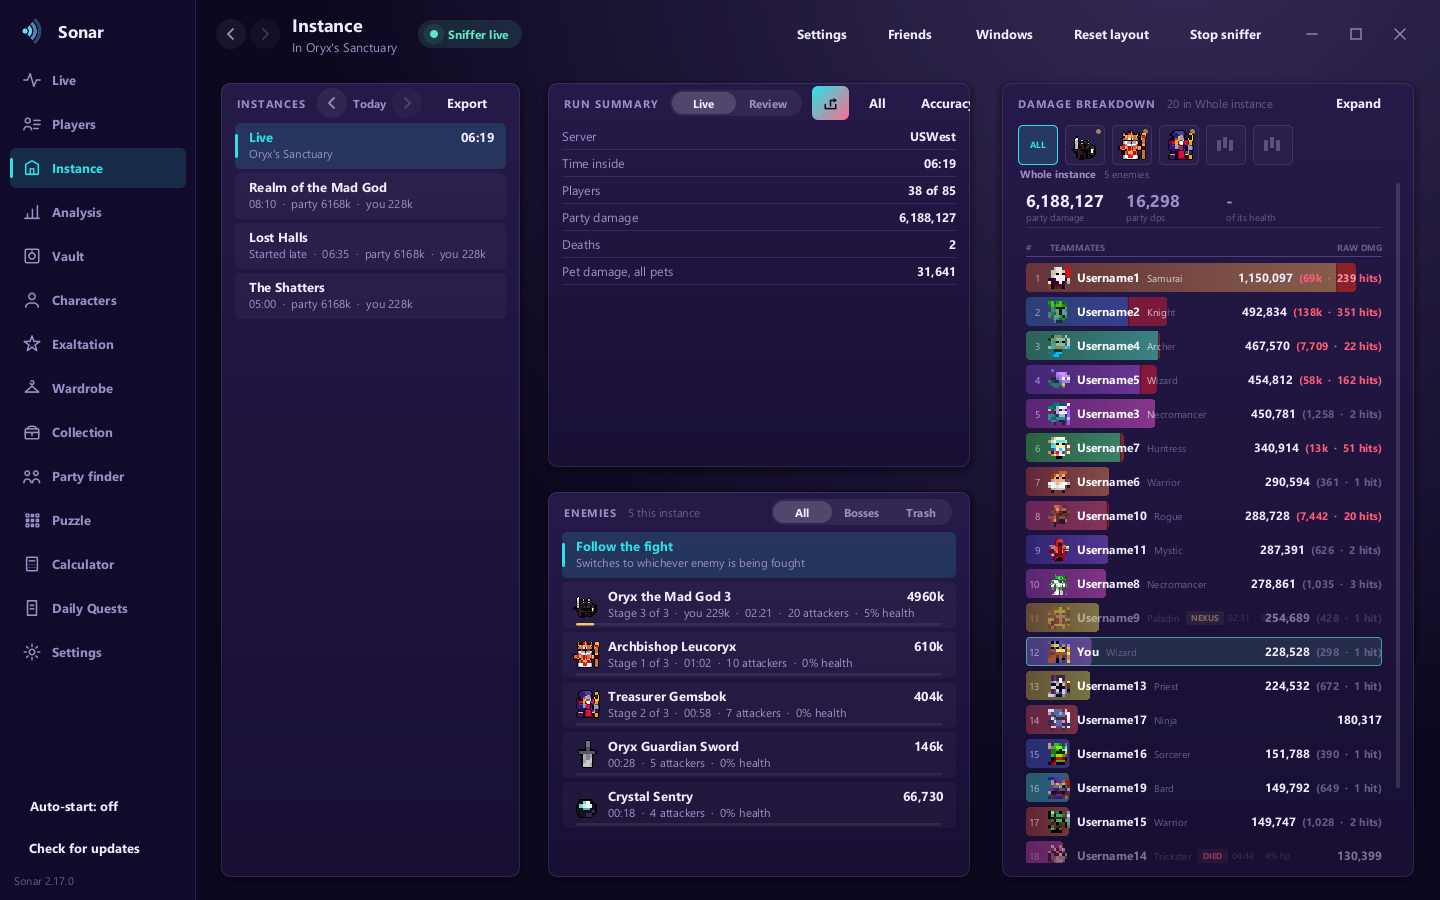
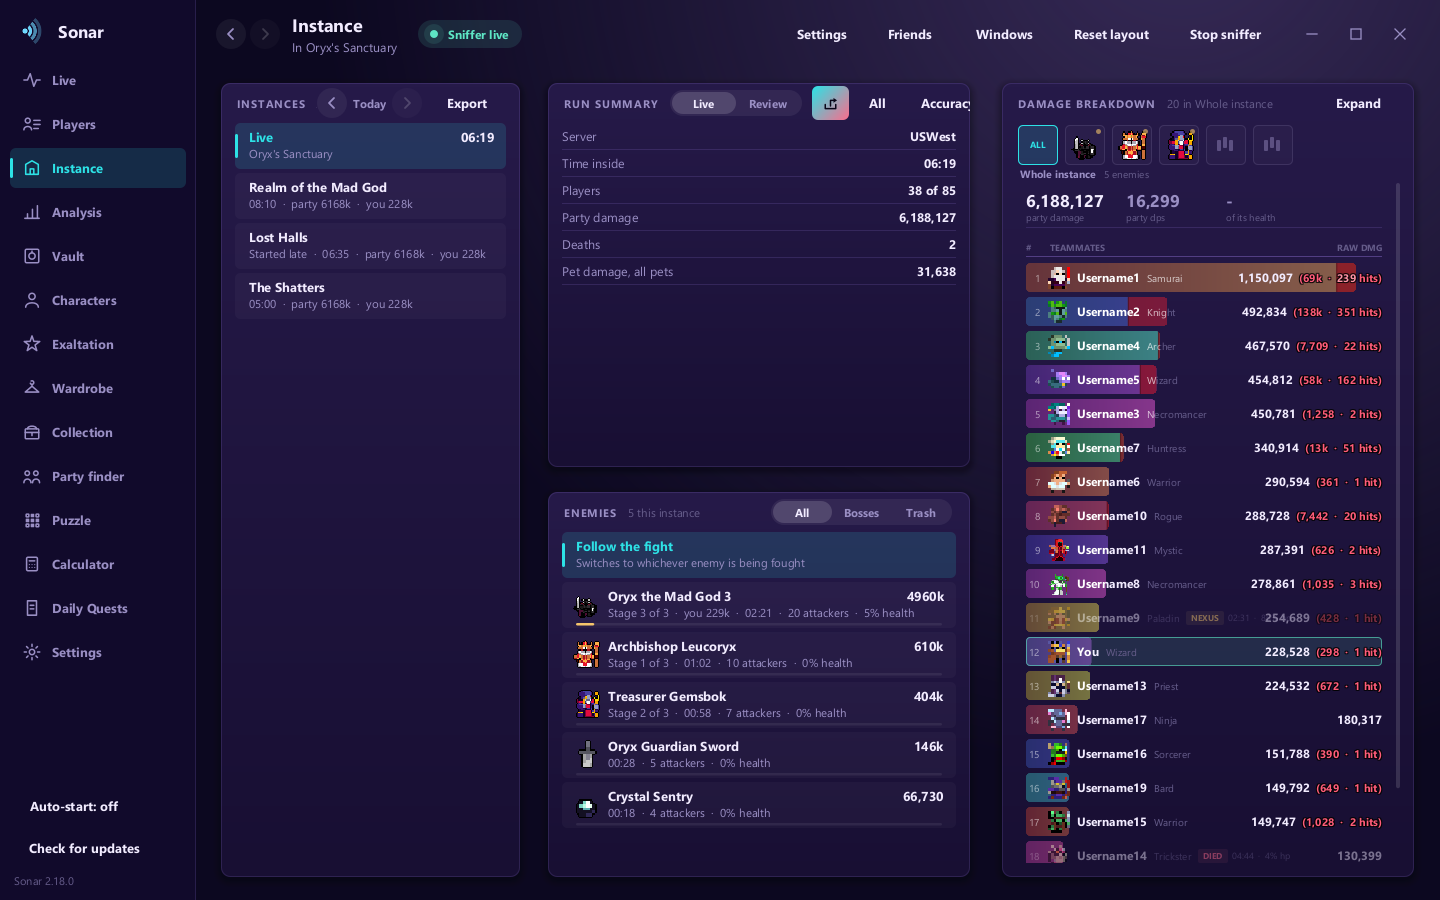
Sonar 2.18.0: guard damage is always red
2.17.0 drew a stray hit or two in grey, reasoning that it was not worth
accusing anybody over. Wrong call, and the user was right to push back: the
figure exists to say damage went into the guard, and a stray hit is still a
hit on the guard. Every guard figure is red now - breakdown, columns, player
panel. What separates one hit from three hundred and fifty is the size of
the number and the length of the red run on the bar.

The figures are also outlined now. On the top of the board the bar runs full
width, putting that line on the class colour and on the deep red within the
same breath; a shadow carried it on most surfaces and lost it on the bright
end of a gradient. SonarTheme.outlined and acrossOutlined do it in eight
offsets, and the zoomed comparison is unambiguous.

Also: widening the breakdown no longer prints the guard figures twice. The
brackets are what the INTO GUARD and GUARD HITS columns become when there is
no room for them, so they are suppressed where the columns fit.

233 self-test assertions pass.

Claude-Session: https://claude.ai/code/session_018UYKXESrWTKvUcwzXH1CDy

diff --git a/src/main/java/sonar/ui/BreakdownPane.java b/src/main/java/sonar/ui/BreakdownPane.java
@@ -403,7 +403,9 @@ class BreakdownPane extends Pane {
 
         g.setFont(SonarTheme.bold(12f));
         String figure = SonarTheme.number(r.damage);
-        if (r.guardDamage > 0) {
+        // the brackets are what the columns become when there is no room for them, so where
+        // the columns are showing these would be the same two numbers printed twice
+        if (r.guardDamage > 0 && l.guard <= 0) {
             // the guard's figure in brackets after the damage, where a reader already is
             // both figures, because the hit count is what other trackers call "guarded hits"
             // and it is the one people quote at each other afterwards
@@ -411,12 +413,16 @@ class BreakdownPane extends Pane {
                     + "  ·  " + SonarTheme.hits(r.guardHits) + ")";
             g.setFont(SonarTheme.bold(11f));
             int insideW = g.getFontMetrics().stringWidth(inside);
-            // a full bar reaches under these figures, so they take the paler red where they
-            // cross the glass - DANGER on the glass is red on red
-            Color ink = r.guardIncidental() ? SonarTheme.FAINT : SonarTheme.DANGER;
-            Color onGlassInk = r.guardIncidental() ? SonarTheme.MUTED : SonarTheme.GUARD_INK;
-            SonarTheme.across(g, inside, l.damage - insideW, mid + 4, guardStart, barEnd, clipTop, clipH,
-                    ink, onGlassInk, ink);
+            // Always red, never softened: damage into a guard is the thing this figure exists
+            // to report, and a stray hit is still a hit on the guard. What separates one shot
+            // from three hundred is the size of the number and the length of the red run on
+            // the bar, which is plenty - it does not need the colour as well.
+            //
+            // Outlined, because a full bar puts this line on the class colour and on the deep
+            // red within the same breath. A shadow carries it on most surfaces and loses it on
+            // the bright end of a gradient; an outline holds on all of them.
+            SonarTheme.acrossOutlined(g, inside, l.damage - insideW, mid + 4, guardStart, barEnd,
+                    clipTop, clipH, SonarTheme.DANGER, SonarTheme.GUARD_INK, SonarTheme.DANGER);
             g.setFont(SonarTheme.bold(12f));
             g.setColor(SonarTheme.TEXT);
             right(g, figure, l.damage - insideW, mid + 4);
@@ -433,8 +439,8 @@ class BreakdownPane extends Pane {
         cell(g, l.hits, mid, r.hits > 0 ? SonarTheme.number(r.hits) : "-", SonarTheme.MUTED);
         cell(g, l.biggest, mid, r.biggestHit > 0 ? SonarTheme.number(r.biggestHit) : "-", SonarTheme.MUTED);
         // damage put into a guard that was up: the number somebody is asked about afterwards,
-        // so it is coloured rather than left to be found among the greys
-        Color guardInk = r.guardDamage <= 0 || r.guardIncidental() ? SonarTheme.FAINT : SonarTheme.CORAL;
+        // so it carries the same red here as it does in the brackets
+        Color guardInk = r.guardDamage > 0 ? SonarTheme.DANGER : SonarTheme.FAINT;
         cell(g, l.guard, mid, r.guardDamage > 0 ? SonarTheme.number(r.guardDamage) : "-", guardInk);
         cell(g, l.guardHits, mid, r.guardHits > 0 ? SonarTheme.number(r.guardHits) : "-", guardInk);
         cell(g, l.taken, mid, r.damageTaken >= 0 ? SonarTheme.number(r.damageTaken) : "-",

diff --git a/src/main/java/sonar/ui/SonarTheme.java b/src/main/java/sonar/ui/SonarTheme.java
@@ -437,6 +437,29 @@ public final class SonarTheme {
      *
      * @param guardStart where the second colour begins; pass {@code barEnd} for none.
      */
+    public static void acrossOutlined(Graphics2D g, String text, float x, float y, double guardStart,
+                                      double barEnd, int top, int height, Color ink) {
+        acrossOutlined(g, text, x, y, guardStart, barEnd, top, height, ink, ink, ink);
+    }
+
+    /** {@link #across}, with each run outlined - see {@link #outlined}. */
+    public static void acrossOutlined(Graphics2D g, String text, float x, float y, double guardStart,
+                                      double barEnd, int top, int height,
+                                      Color onBar, Color onGuard, Color offBar) {
+        if (text == null || text.isEmpty()) return;
+        double[] from = {-10000, guardStart, barEnd};
+        double[] to = {guardStart, barEnd, 20000};
+        Color[] ink = {onBar, onGuard, offBar};
+        Shape old = g.getClip();
+        for (int zone = 0; zone < 3; zone++) {
+            if (to[zone] <= from[zone]) continue;
+            g.setClip(old);
+            g.clip(new java.awt.geom.Rectangle2D.Double(from[zone], top, to[zone] - from[zone], height));
+            outlined(g, text, x, y, ink[zone], OUTLINE);
+        }
+        g.setClip(old);
+    }
+
     public static void across(Graphics2D g, String text, float x, float y, double guardStart, double barEnd,
                               int top, int height, Color onBar, Color onGuard, Color offBar) {
         if (text == null || text.isEmpty()) return;
@@ -466,6 +489,30 @@ public final class SonarTheme {
     public static Color onGlass(Color surface) {
         return mix(surface, GUARD_GLASS, GUARD_GLASS.getAlpha() / 255.0);
     }
+
+    /**
+     * A line of text with a dark outline around it, so a colour chosen to mean something
+     * keeps meaning it wherever it lands.
+     * <p>
+     * A red figure has to read on the panel, on eight different class colours and on the deep
+     * red laid over a bar. A single drop shadow carries it on most of those and loses it on
+     * the bright end of a gradient. Eight offsets at one pixel is a real outline rather than a
+     * shadow, and at these sizes it costs nothing worth measuring.
+     */
+    public static void outlined(Graphics2D g, String text, float x, float y, Color fill, Color edge) {
+        if (text == null || text.isEmpty()) return;
+        g.setColor(edge);
+        for (int dx = -1; dx <= 1; dx++) {
+            for (int dy = -1; dy <= 1; dy++) {
+                if (dx != 0 || dy != 0) g.drawString(text, x + dx, y + dy);
+            }
+        }
+        g.setColor(fill);
+        g.drawString(text, x, y);
+    }
+
+    /** The outline that goes under {@link #outlined} text by default. */
+    public static final Color OUTLINE = new Color(0, 0, 0, 165);
 
     public static Color mix(Color a, Color b, double t) {
         t = Math.max(0, Math.min(1, t));

diff --git a/src/main/java/sonar/ui/LiveView.java b/src/main/java/sonar/ui/LiveView.java
@@ -501,6 +501,8 @@ class LiveView {
 
     /** True while the breakdown card is opened out over the Instance page. */
     private boolean breakdownOpen;
+    // for screenshots: -Dsonar.shot.expand=1 opens the breakdown full width, where it has room
+    // for the INTO GUARD and GUARD HITS columns
     private final SonarButton breakdownToggle = new SonarButton("Expand", false, this::toggleBreakdown);
 
     /** The breakdown, with the row of enemies to pick between above it. */
@@ -716,6 +718,11 @@ class LiveView {
      * Writes the three shareable pictures to a folder, for looking at what they actually come
      * out like without having to finish a run first. Driven by {@code -Dsonar.shot.cards=<dir>}.
      */
+    /** For screenshots: opens the breakdown full width, where the guard columns have room. */
+    void expandBreakdownForShot() {
+        if (!breakdownOpen) toggleBreakdown();
+    }
+
     void writeExports(String dir) {
         LiveModel m = shown();
         PlayerLook.fill(m.whole.rows);
@@ -3037,9 +3044,11 @@ class LiveView {
             // only on a fight that has a guard to shoot, which is a handful of them; everywhere
             // else the line would read "-" for everyone forever and teach nobody anything
             if (m.whole.anyGuarded() || chosen.guardDamage > 0) {
-                f.add(new String[]{"Into the guard", chosen.guardDamage <= 0 ? "none"
-                        : SonarTheme.number(chosen.guardDamage) + "  ("
-                        + SonarTheme.number(chosen.guardHits) + (chosen.guardHits == 1 ? " hit)" : " hits)")});
+                boolean any = chosen.guardDamage > 0;
+                f.add(new String[]{"Into the guard", any
+                        ? SonarTheme.number(chosen.guardDamage) + "  ("
+                        + SonarTheme.number(chosen.guardHits) + (chosen.guardHits == 1 ? " hit)" : " hits)")
+                        : "none", any ? "guard" : ""});
             }
             f.add(new String[]{"Biggest hit", chosen.biggestHit <= 0 ? "-" : SonarTheme.number(chosen.biggestHit)});
             String[] slots = {"Weapon", "Ability", "Armor", "Ring"};

diff --git a/src/main/java/sonar/ui/FactsPane.java b/src/main/java/sonar/ui/FactsPane.java
@@ -125,7 +125,8 @@ class FactsPane extends Pane {
         FontMetrics labelFm = g.getFontMetrics(label), valueFm = g.getFontMetrics(value);
         for (String[] f : facts) {
             g.setFont(value);
-            g.setColor(SonarTheme.TEXT);
+            // a third element marks a row that carries its own colour; see LiveView's guard row
+            g.setColor(f.length > 2 && "guard".equals(f[2]) ? SonarTheme.DANGER : SonarTheme.TEXT);
             String v = SonarTheme.fit(f[1], valueFm, width / 2 + 30);
             int vw = valueFm.stringWidth(v);
             g.drawString(v, width - vw, y + 18);

diff --git a/src/main/java/sonar/ui/Updater.java b/src/main/java/sonar/ui/Updater.java
@@ -34,7 +34,7 @@ import java.util.zip.ZipInputStream;
 final class Updater {
 
     /** Version of this build. Raise it for each release; tools/make-release.ps1 reads it for the zip name. */
-    static final String CURRENT = "2.17.0";
+    static final String CURRENT = "2.18.0";
 
     private static final String REPOSITORY = "https://github.com/JustAutomate-AI/sonar-rotmg";
     private static final String LATEST = REPOSITORY + "/releases/latest";

diff --git a/src/main/java/sonar/ui/SonarShell.java b/src/main/java/sonar/ui/SonarShell.java
@@ -692,6 +692,7 @@ public class SonarShell extends JPanel {
         if (tab != null) {
             Timer pick = new Timer(Math.max(200, delay - 1500), e -> {
                 if (nav.containsKey(tab)) select(tab, false);
+                if (System.getProperty("sonar.shot.expand") != null) live.expandBreakdownForShot();
             });
             pick.setRepeats(false);
             pick.start();

diff --git a/src/main/java/sonar/version/Version.java b/src/main/java/sonar/version/Version.java
@@ -8,7 +8,7 @@ public class Version {
      * The app's version, the one shown in the left rail and used for release names.
      * Comes from Updater.CURRENT, which is where it is raised.
      */
-    public static final String VERSION = "2.17.0";
+    public static final String VERSION = "2.18.0";
 
     /**
      * The asset-extraction format, which is NOT the app's version and does not move

diff --git a/CHANGELOG.md b/CHANGELOG.md
@@ -2,6 +2,19 @@
 
 Every release of Sonar, newest first. The version number is also shown at the bottom of the app's left rail.
 
+## 2.18.0
+
+**Guard damage is always red**
+- 2.17.0 drew a stray hit or two in grey, on the reasoning that it was not worth accusing anybody over. That was the wrong call: the figure exists to say damage went into the guard, and a stray hit is still a hit on the guard. Every guard figure is red now, in the breakdown, in the columns and on the player's own panel.
+- What separates one hit from three hundred and fifty is the size of the number and the length of the red run on the bar. That is plenty - it does not need the colour as well.
+
+**Outlined, so the red survives whatever is behind it**
+- The guard figures are drawn with a black outline. On the top of the board the bar runs full width, which puts that line on the class colour and on the deep red within the same breath, and a drop shadow carried it on most surfaces and lost it on the bright end of a gradient.
+- An outline holds on all of them. *(69k · 239 hits)* reads cleanly over tan, over oxblood and over the panel.
+
+**Small things**
+- Widen the breakdown and the guard figures stop being printed twice. The brackets after the damage are what the **INTO GUARD** and **GUARD HITS** columns become when there is no room for them, so the two no longer appear together.
+
 ## 2.17.0
 
 **Words stop opening gaps inside themselves**
